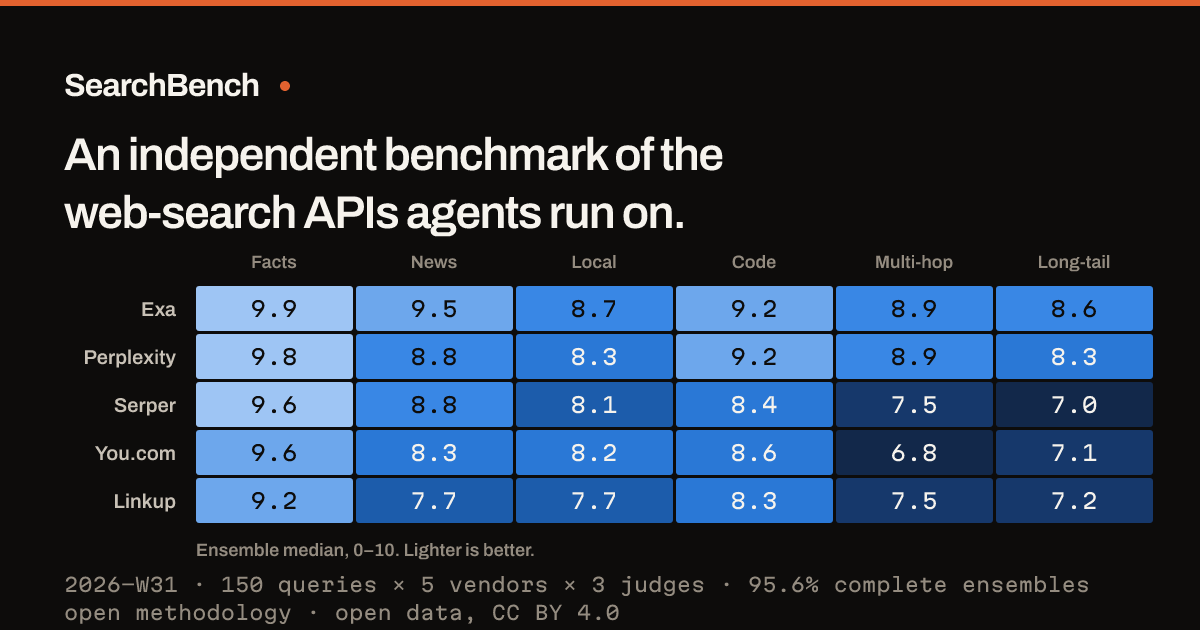
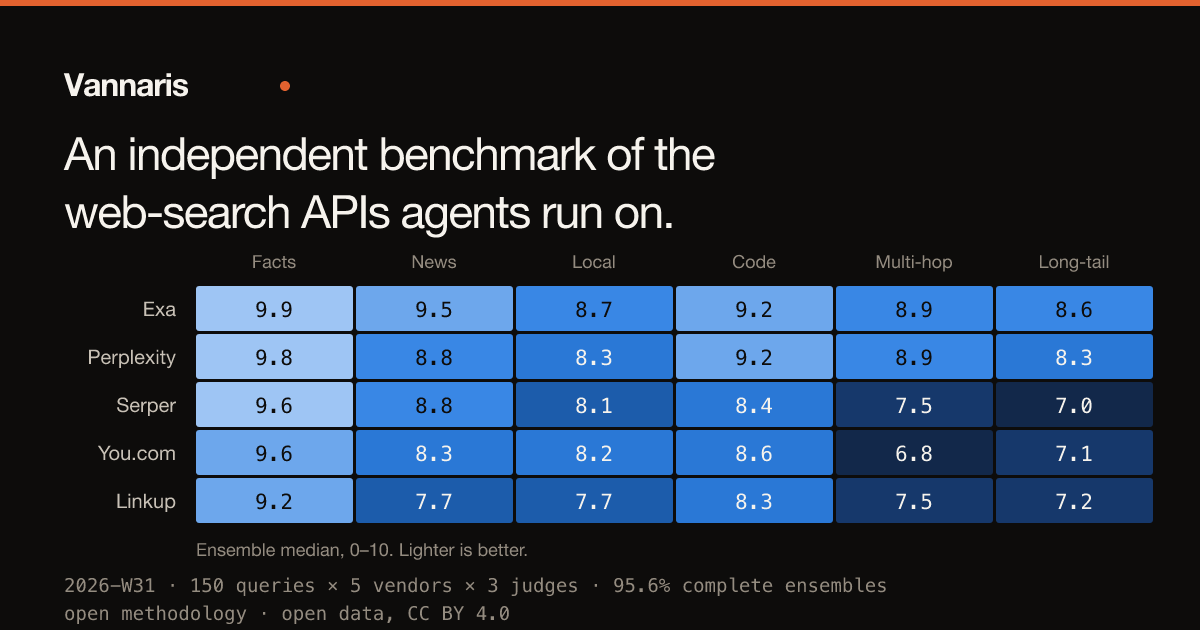
Rename the project to Vannaris
"SearchBench" was a placeholder that was never cleared, and docs/10 found
it had gotten worse rather than better: four projects carry the exact name
in this exact vertical, one pushed the day before the check, and the two
valuable TLDs are held — one by a corporate brand-protection registrar.

Vannaris is free on .com, .ai, .dev and .io, free on PyPI and npm, free as
a GitHub organisation, has no repository or Hugging Face model carrying it,
and returns zero results on the open web. It was picked from roughly 250
candidates; docs/10 §6 records the sweep, the eight candidates that looked
clean and were rejected on inspection, and what the landscape looks like
now — every short pronounceable name is registered, on every TLD that
matters.

Two gaps in scripts/rename.py showed up in the doing, and are fixed here
rather than patched by hand:

- .github was skipped as a dot-directory. The workflow names the database
  by path and uploads it as an artifact, so a rename moved the file out
  from under CI — and `if-no-files-found: warn` means that would have been
  a line in a log, not a red build.
- .svg was not a text suffix, so the social preview card kept rendering
  the old name. That is a miss nobody sees until it is on someone else's
  timeline.

docs/ and applications/ still say SearchBench, deliberately: they are a
record of research and correspondence done under that name, and rewriting
them would falsify a record rather than rename a product.
[…]

diff --git a/site/methodology.html b/site/methodology.html
@@ -3,9 +3,9 @@
 <head>
 <meta charset="utf-8">
 <meta name="viewport" content="width=device-width, initial-scale=1">
-<title>Methodology — SearchBench</title>
-<meta name="description" content="How SearchBench scores web-search APIs: the query set, the vendor set, the judge ensemble, the aggregation rules, and what is deliberately not claimed.">
-<meta property="og:title" content="Methodology — SearchBench">
+<title>Methodology — Vannaris</title>
+<meta name="description" content="How Vannaris scores web-search APIs: the query set, the vendor set, the judge ensemble, the aggregation rules, and what is deliberately not claimed.">
+<meta property="og:title" content="Methodology — Vannaris">
 <meta property="og:description" content="The query set, the vendor set, the judge ensemble, the aggregation rules, and what is deliberately not claimed.">
 <meta property="og:type" content="website">
 <meta property="og:image" content="assets/og.png">
@@ -18,7 +18,7 @@
 <header class="masthead">
   <div class="shell">
     <div class="masthead__row">
-      <a class="wordmark" href="index.html">SearchBench</a>
+      <a class="wordmark" href="index.html">Vannaris</a>
       <span class="masthead__now" data-now aria-live="polite"></span>
       <nav class="nav" aria-label="Primary">
         <a href="results.html">Results</a>
@@ -417,7 +417,7 @@
       </p>
           <span class="label">your own keys</span>
     </div>
-    <pre class="mono" style="background:var(--surface-2);padding:1.1rem;border-radius:3px;overflow-x:auto;font-size:0.82rem;line-height:1.7;margin:0">git clone &lt;repository&gt; &amp;&amp; cd searchbench
+    <pre class="mono" style="background:var(--surface-2);padding:1.1rem;border-radius:3px;overflow-x:auto;font-size:0.82rem;line-height:1.7;margin:0">git clone &lt;repository&gt; &amp;&amp; cd vannaris
 python -m venv .venv &amp;&amp; .venv/bin/pip install -r requirements.txt
 cp .env.example .env          # add your keys
 .venv/bin/python scripts/check_keys.py       # verify all eight, one cheap call each
@@ -477,7 +477,7 @@ cp .env.example .env          # add your keys
   <div class="shell foot__row">
     <div>
       <p style="margin:0">
-        SearchBench, independent benchmark of web-search APIs.<br>
+        Vannaris, independent benchmark of web-search APIs.<br>
         Data CC BY 4.0 · code MIT · not affiliated with any vendor listed.
       </p>
     </div>

diff --git a/site/data.html b/site/data.html
@@ -3,9 +3,9 @@
 <head>
 <meta charset="utf-8">
 <meta name="viewport" content="width=device-width, initial-scale=1">
-<title>Data export — SearchBench</title>
+<title>Data export — Vannaris</title>
 <meta name="description" content="Download every judge score, response timing and aggregate cell as CSV or JSON, under CC BY 4.0, with the column dictionary and a worked recomputation.">
-<meta property="og:title" content="Data export — SearchBench">
+<meta property="og:title" content="Data export — Vannaris">
 <meta property="og:description" content="Every judge score, response timing and aggregate cell, CC BY 4.0, with the column dictionary and a worked recomputation.">
 <meta property="og:type" content="website">
 <meta property="og:image" content="assets/og.png">
@@ -18,7 +18,7 @@
 <header class="masthead">
   <div class="shell">
     <div class="masthead__row">
-      <a class="wordmark" href="index.html">SearchBench</a>
+      <a class="wordmark" href="index.html">Vannaris</a>
       <span class="masthead__now" data-now aria-live="polite"></span>
       <nav class="nav" aria-label="Primary">
         <a href="results.html">Results</a>
@@ -274,7 +274,7 @@ for (vendor, category), score in sorted(means.items()):
   <div class="shell foot__row">
     <div>
       <p style="margin:0">
-        SearchBench, independent benchmark of web-search APIs.<br>
+        Vannaris, independent benchmark of web-search APIs.<br>
         Data CC BY 4.0 · code MIT · not affiliated with any vendor listed.
       </p>
     </div>
@@ -319,7 +319,7 @@ window.SBPage = {
     wk.textContent = D.latest.week + ".json";
 
     document.getElementById("citation").textContent =
-      "SearchBench (" + D.latest.week + "). Benchmark of web-search APIs,\n" +
+      "Vannaris (" + D.latest.week + "). Benchmark of web-search APIs,\n" +
       "week " + D.latest.week + ", run " + D.latest.run_id.slice(0, 8) + ",\n" +
       "query set " + D.latest.query_set_hash + ". CC BY 4.0.";
   },

diff --git a/site/index.html b/site/index.html
@@ -3,9 +3,9 @@
 <head>
 <meta charset="utf-8">
 <meta name="viewport" content="width=device-width, initial-scale=1">
-<title>SearchBench — a neutral benchmark of web-search APIs for AI agents</title>
+<title>Vannaris — a neutral benchmark of web-search APIs for AI agents</title>
 <meta name="description" content="An independent, reproducible benchmark of the web-search APIs that AI agents depend on. Every score, every judge, and every limitation published in full.">
-<meta property="og:title" content="SearchBench — a neutral benchmark of web-search APIs">
+<meta property="og:title" content="Vannaris — a neutral benchmark of web-search APIs">
 <meta property="og:description" content="Five search APIs, 150 queries, six categories, a three-model judge ensemble. Open methodology, open data, published limitations.">
 <meta property="og:type" content="website">
 <meta property="og:image" content="assets/og.png">
@@ -19,7 +19,7 @@
 <header class="masthead">
   <div class="shell">
     <div class="masthead__row">
-      <a class="wordmark" href="index.html">SearchBench</a>
+      <a class="wordmark" href="index.html">Vannaris</a>
       <span class="masthead__now" data-now aria-live="polite"></span>
       <nav class="nav" aria-label="Primary">
         <a href="results.html">Results</a>
@@ -348,7 +348,7 @@
   <div class="shell foot__row">
     <div>
       <p style="margin:0">
-        SearchBench, independent benchmark of web-search APIs.<br>
+        Vannaris, independent benchmark of web-search APIs.<br>
         Data CC BY 4.0 · code MIT · not affiliated with any vendor listed.
       </p>
     </div>

diff --git a/site/results.html b/site/results.html
@@ -3,9 +3,9 @@
 <head>
 <meta charset="utf-8">
 <meta name="viewport" content="width=device-width, initial-scale=1">
-<title>Results — SearchBench</title>
+<title>Results — Vannaris</title>
 <meta name="description" content="Full results: quality by vendor and category, cost, latency, judge agreement, and every individual query score.">
-<meta property="og:title" content="Results — SearchBench">
+<meta property="og:title" content="Results — Vannaris">
 <meta property="og:description" content="Quality by vendor and category, cost, latency, judge agreement, and every individual query score.">
 <meta property="og:type" content="website">
 <meta property="og:image" content="assets/og.png">
@@ -18,7 +18,7 @@
 <header class="masthead">
   <div class="shell">
     <div class="masthead__row">
-      <a class="wordmark" href="index.html">SearchBench</a>
+      <a class="wordmark" href="index.html">Vannaris</a>
       <span class="masthead__now" data-now aria-live="polite"></span>
       <nav class="nav" aria-label="Primary">
         <a href="results.html">Results</a>
@@ -320,7 +320,7 @@
   <div class="shell foot__row">
     <div>
       <p style="margin:0">
-        SearchBench, independent benchmark of web-search APIs.<br>
+        Vannaris, independent benchmark of web-search APIs.<br>
         Data CC BY 4.0 · code MIT · not affiliated with any vendor listed.
       </p>
     </div>

diff --git a/site/data/bundle.js b/site/data/bundle.js
@@ -1,6 +1,6 @@
 // Generated by src/export.py — do not edit.
 window.SB_DATA = {
- "generated_at": "2026-08-01T10:38:02+00:00",
+ "generated_at": "2026-08-01T11:33:42+00:00",
  "repo_url": null,
  "track_record": {
   "weeks_published": 1,

diff --git a/site/assets/site.css b/site/assets/site.css
@@ -1,4 +1,4 @@
-/* SearchBench — public site.
+/* Vannaris — public site.
  *
  * The reference object is a measurement bureau's public record: a test
  * certificate, a scoreboard, an instrument readout. Not a magazine, not a

diff --git a/scripts/rename.py b/scripts/rename.py
@@ -11,9 +11,9 @@ problem this script solves in one command.
     python scripts/rename.py --dry-run RetrievalReferee
     python scripts/rename.py RetrievalReferee
 
-Both casings are handled: "SearchBench" in prose and headings, "searchbench" in
+Both casings are handled: "Vannaris" in prose and headings, "vannaris" in
 identifiers, paths and filenames. Files whose *name* contains the old slug are
-renamed too, which is how `data/searchbench.db` follows along.
+renamed too, which is how `data/vannaris.db` follows along.
 """
 
 from __future__ import annotations
@@ -25,8 +25,8 @@ from pathlib import Path
 
 ROOT = Path(__file__).resolve().parent.parent
 
-OLD_TITLE = "SearchBench"
-OLD_SLUG = "searchbench"
+OLD_TITLE = "Vannaris"
+OLD_SLUG = "vannaris"
 
 # Directories that are never rewritten: generated, vendored, or a historical
 # record that should keep saying what it said at the time.
@@ -41,7 +41,11 @@ SKIP_TREES = {"docs", "applications"}
 SKIP_GLOBS = ("*handoff*",)
 
 TEXT_SUFFIXES = {".py", ".js", ".mjs", ".html", ".css", ".md", ".json", ".sql",
-                 ".txt", ".yml", ".yaml", ".toml", ".sh", ".example"}
+                 ".txt", ".yml", ".yaml", ".toml", ".sh", ".example", ".svg"}
+# .svg is here because og.svg carries the name as rendered text. It is generated
+# by scripts/make_og_image.py, so rewriting it is redundant when that script is
+# re-run — and correct when it is not. A social preview image showing the old
+# name is the kind of miss nobody sees until it is on someone else's timeline.
 
 
 def slugify(name: str) -> str:
@@ -57,8 +61,12 @@ def candidates() -> list[Path]:
         rel = path.relative_to(ROOT)
         if set(rel.parts) & SKIP_DIRS or rel.parts[0] in SKIP_TREES:
             continue
-        # Dot-directories are tool caches and editor state, never product surface.
-        if any(part.startswith(".") for part in rel.parts[:-1]):
+        # Dot-directories are tool caches and editor state, never product surface
+        # — except .github, which is. The workflow names the database by path and
+        # uploads it as an artifact; skipping it renames the file out from under
+        # CI, and `if-no-files-found: warn` means that failure is a line in a log
+        # rather than a red build.
+        if any(part.startswith(".") and part != ".github" for part in rel.parts[:-1]):
             continue
         if path.name.startswith(".env"):
             continue  # never touch secrets

diff --git a/scripts/make_og_image.py b/scripts/make_og_image.py
@@ -81,7 +81,7 @@ def build(latest: dict) -> str:
     # width — there is no text measurement available here, so it errs wide.
     parts.append(
         f'<text x="64" y="96" font-family="{SANS}" font-size="32" font-weight="700" '
-        f'letter-spacing="-1.1" fill="{INK}">SearchBench</text>'
+        f'letter-spacing="-1.1" fill="{INK}">Vannaris</text>'
         f'<circle cx="285" cy="86" r="5" fill="{SIGNAL}"/>'
     )
 

diff --git a/src/export.py b/src/export.py
@@ -52,7 +52,7 @@ from .judge.ensemble import JUDGES, RUBRIC
 from .vendors.adapters import REGISTRY, TOP_K
 
 ROOT = Path(__file__).resolve().parent.parent
-DB_PATH = ROOT / "data" / "searchbench.db"
+DB_PATH = ROOT / "data" / "vannaris.db"
 
 # A (vendor, category) cell needs this share of its queries carrying a complete
 # three-judge ensemble before it is published. 0.6 is deliberately permissive —

diff --git a/src/runner.py b/src/runner.py
@@ -30,7 +30,7 @@ from .vendors.adapters import build_all
 from .vendors.base import SearchResponse
 
 ROOT = Path(__file__).resolve().parent.parent
-DB_PATH = ROOT / "data" / "searchbench.db"
+DB_PATH = ROOT / "data" / "vannaris.db"
 
 # Kept low deliberately: several vendors publish per-minute caps well under
 # what unbounded asyncio.gather would produce, and tripping a rate limit

diff --git a/src/storage/__init__.py b/src/storage/__init__.py
@@ -11,7 +11,7 @@ import sqlite3
 from pathlib import Path
 
 ROOT = Path(__file__).resolve().parent.parent.parent
-DB_PATH = ROOT / "data" / "searchbench.db"
+DB_PATH = ROOT / "data" / "vannaris.db"
 SCHEMA = ROOT / "src" / "storage" / "schema.sql"
 
 # Columns added to schema.sql after a database already existed. CREATE TABLE IF

diff --git a/CLAUDE.md b/CLAUDE.md
@@ -1,10 +1,10 @@
-# CLAUDE.md — SearchBench build guide
+# CLAUDE.md — Vannaris build guide
 
 This file is written for whichever instance of Claude Code picks up this project. Read this file first, always — it's the entry point and the thing that tells you which other file to open for what. The `docs/` folder is the full research record this project is built on; treat it as authoritative unless the founder tells you otherwise, and treat anything marked UNVERIFIED inside it as still open, not resolved.
 
 ## What this project is, in one paragraph
 
-SearchBench is a free, public, continuously-updated benchmark of web-search/retrieval APIs used by AI agents (Tavily, Exa, Brave, Serper, You.com, Perplexity, Linkup, and others — see `docs/03-legal-and-vendor-terms.md` for exactly which ones are cleared to start with), scored weekly across a query taxonomy by an LLM-judge ensemble, published as a public dashboard with an open data export. On top of the free benchmark sits a monetized BYOK routing SDK/API that picks the best vendor per query using the benchmark's own live scores. The benchmark is the trust engine; the router is the business. Full detail in `docs/01-product-spec.md`.
+Vannaris is a free, public, continuously-updated benchmark of web-search/retrieval APIs used by AI agents (Tavily, Exa, Brave, Serper, You.com, Perplexity, Linkup, and others — see `docs/03-legal-and-vendor-terms.md` for exactly which ones are cleared to start with), scored weekly across a query taxonomy by an LLM-judge ensemble, published as a public dashboard with an open data export. On top of the free benchmark sits a monetized BYOK routing SDK/API that picks the best vendor per query using the benchmark's own live scores. The benchmark is the trust engine; the router is the business. Full detail in `docs/01-product-spec.md`.
 
 ## Read this before doing anything else
 
@@ -20,11 +20,11 @@ SearchBench is a free, public, continuously-updated benchmark of web-search/retr
 
 ## Non-negotiable constraints (do not silently violate these)
 
-**BYOK only, always.** Every vendor's terms of service prohibits reselling or sublicensing access. The router must never hold, proxy-resell, or take a markup on vendor API keys or vendor query costs — it orchestrates using the end user's own credentials. If you find yourself designing a feature where SearchBench sits between the user and the vendor as a resold/proxied service, stop and re-read `docs/03-legal-and-vendor-terms.md` — that design is not viable under the vendor terms as currently understood.
+**BYOK only, always.** Every vendor's terms of service prohibits reselling or sublicensing access. The router must never hold, proxy-resell, or take a markup on vendor API keys or vendor query costs — it orchestrates using the end user's own credentials. If you find yourself designing a feature where Vannaris sits between the user and the vendor as a resold/proxied service, stop and re-read `docs/03-legal-and-vendor-terms.md` — that design is not viable under the vendor terms as currently understood.
 
 **Vendor scope for the public benchmark is not "add every vendor you can find an API key for."** Two vendors (Seltz, Search Router) have explicit contractual clauses prohibiting exactly what this benchmark does, without written consent. Do not add them to the public, published benchmark without the founder confirming that consent has actually been obtained. If you're asked to "add a new vendor," check `docs/03-legal-and-vendor-terms.md`'s per-vendor table first — if the vendor isn't in that table yet, its terms haven't been reviewed and shouldn't be assumed clear.
 
-**The naming question is open, not settled.** This codebase and these docs use "SearchBench" as the working name because that's what the research was scoped under, not because the name has been cleared. Don't buy a domain, file a trademark, or treat the name as final on your own initiative — that's the founder's call, informed by the naming section of `docs/03-legal-and-vendor-terms.md`.
+**The naming question is open, not settled.** This codebase and these docs use "Vannaris" as the working name because that's what the research was scoped under, not because the name has been cleared. Don't buy a domain, file a trademark, or treat the name as final on your own initiative — that's the founder's call, informed by the naming section of `docs/03-legal-and-vendor-terms.md`.
 
 **Evidence discipline carries forward into the product itself.** The whole pitch is "the neutral benchmark nobody can dismiss as marketing." That only holds if the methodology is genuinely public, genuinely reproducible, and genuinely free of vendor influence. When implementing the judge pipeline, don't quietly simplify away the bias mitigations in `docs/04-benchmark-methodology.md` (cross-family ensemble, position-swap checks, length normalization) for the sake of shipping faster — those mitigations are the product's credibility, not nice-to-haves.
 
@@ -36,7 +36,7 @@ SearchBench is a free, public, continuously-updated benchmark of web-search/retr
 
 Per `docs/07-build-plan.md`, the build order is: (1) benchmark runner + judge pipeline against the cleared v1 vendor set, running weekly, even before the dashboard exists — get real data accumulating in public as early as possible; (2) public dashboard, once there are a few real weeks of data to show; (3) router SDK, BYOK, schema-compatible with LiteLLM's `/v1/search` endpoint per `docs/05-architecture.md`. Don't reorder this without a clear reason — the elapsed public track record is the core credibility claim and front-loading dashboard polish over runner correctness works against that.
 
-**Where it actually stands (updated 2026-07-31).** Step 1 is built and has produced one complete validated run (150 queries × 5 vendors × 3 judges, 95.6% complete ensembles) — see `searchbench-handoff-2026-08-01.md` for what that session learned. Step 2 is now built too: `site/` is a static four-page site (landing, results, methodology, data export) generated from `src/export.py`, with `scripts/check-site.mjs` as its smoke test. Building it early, against one week of data, is a deviation from the order above and was a deliberate call — it is complete but **not published**, and every page states the one-week limitation prominently rather than implying a track record that does not exist.
+**Where it actually stands (updated 2026-07-31).** Step 1 is built and has produced one complete validated run (150 queries × 5 vendors × 3 judges, 95.6% complete ensembles) — see `vannaris-handoff-2026-08-01.md` for what that session learned. Step 2 is now built too: `site/` is a static four-page site (landing, results, methodology, data export) generated from `src/export.py`, with `scripts/check-site.mjs` as its smoke test. Building it early, against one week of data, is a deviation from the order above and was a deliberate call — it is complete but **not published**, and every page states the one-week limitation prominently rather than implying a track record that does not exist.
 
 **Step 1's other half — the scheduled weekly run — is now written and tested, and deliberately not armed (updated 2026-08-01).** `.github/workflows/weekly.yml` runs the full set every Monday, exports, checks the site and commits the week; the runner exits non-zero on a methodologically invalid run so a bad week stops before the commit; the exporter merges the committed per-week JSON back in so the track record accrues without ever committing the database. Arming it is two founder actions — put the eight keys in Actions secrets, push — documented in the weekly-run section of `README.md`. **Do not arm it on your own initiative:** it starts a recurring real-money spend on the founder's vendor accounts.
 
